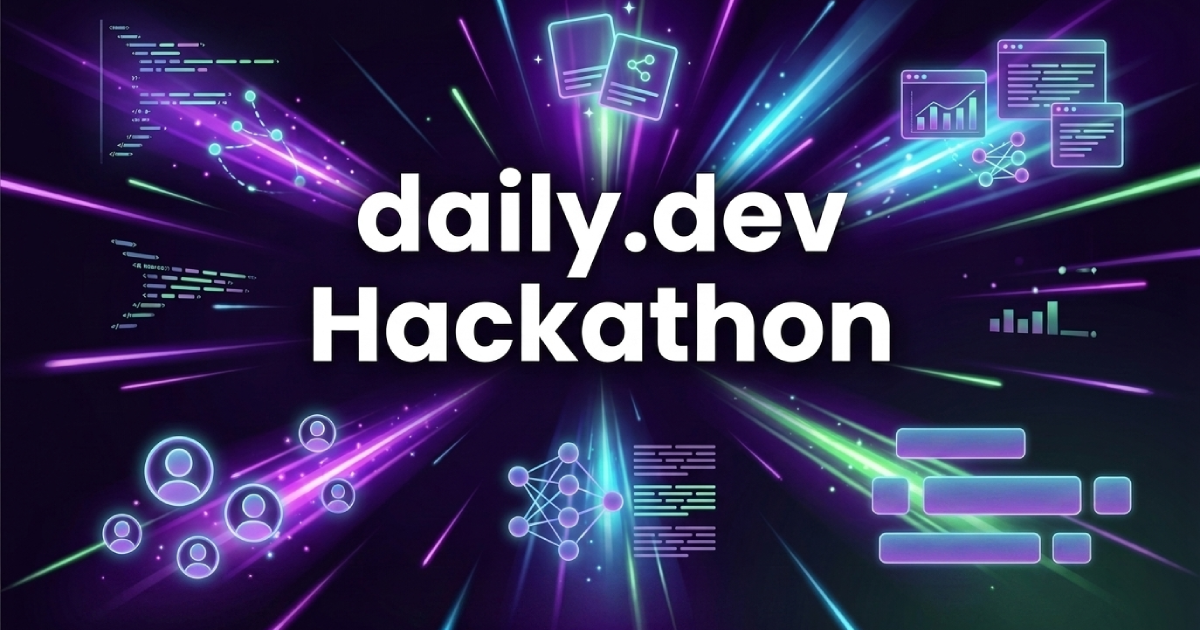
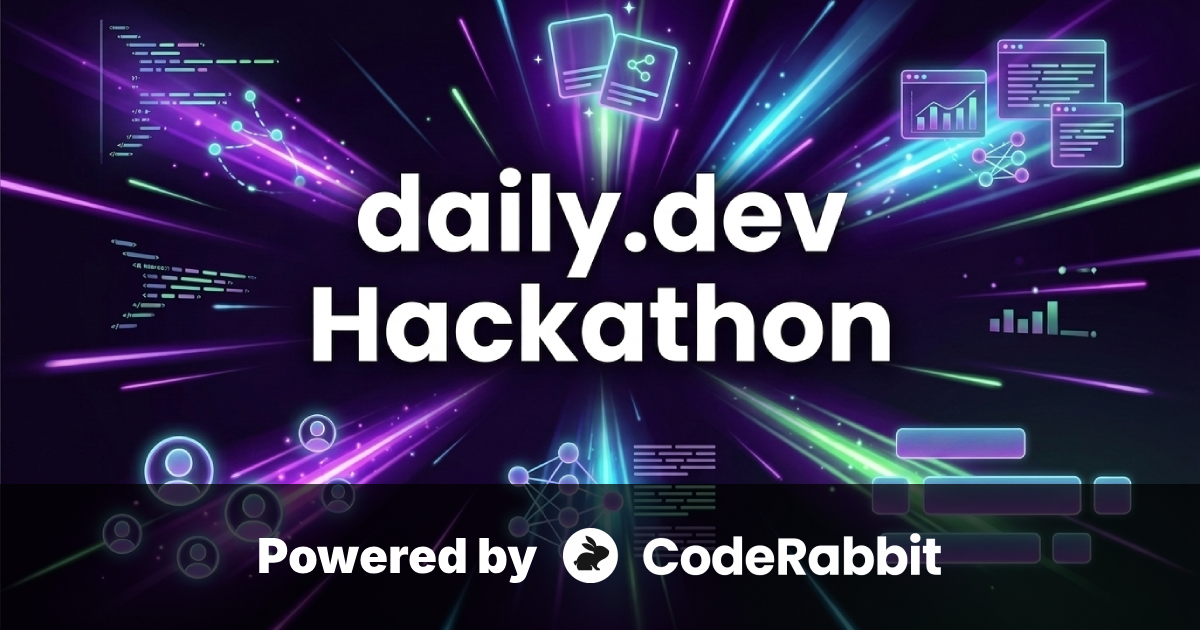
feat: hackathon powered by

Changed region(s): [[0.0, 0.754, 1.0, 1.0]]

diff --git a/packages/shared/src/features/hackathon/components/HackathonHowItWorks.tsx b/packages/shared/src/features/hackathon/components/HackathonHowItWorks.tsx
@@ -45,8 +45,13 @@ export const HackathonHowItWorks = (): ReactElement => {
               daily.dev Plus
             </a>
           </Link>{' '}
-          with all the benefits for best submissions. Winning projects featured
-          on daily.dev and social media.
+          with all the benefits for best submissions.{' '}
+          <Link href="https://www.coderabbit.ai/pricing">
+            <a target="_blank" className="text-[#FF570A] underline">
+              3 free months of CodeRabbit Pro Plus.
+            </a>
+          </Link>{' '}
+          Winning projects featured on daily.dev and social media.
         </Typography>
       </FlexCol>
 